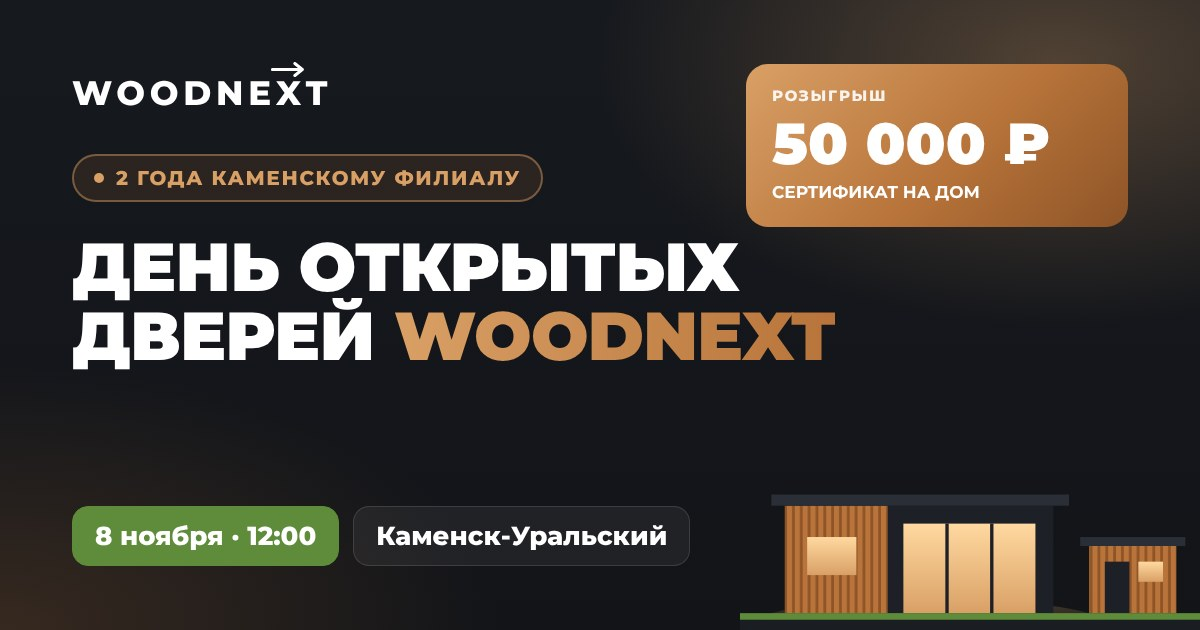
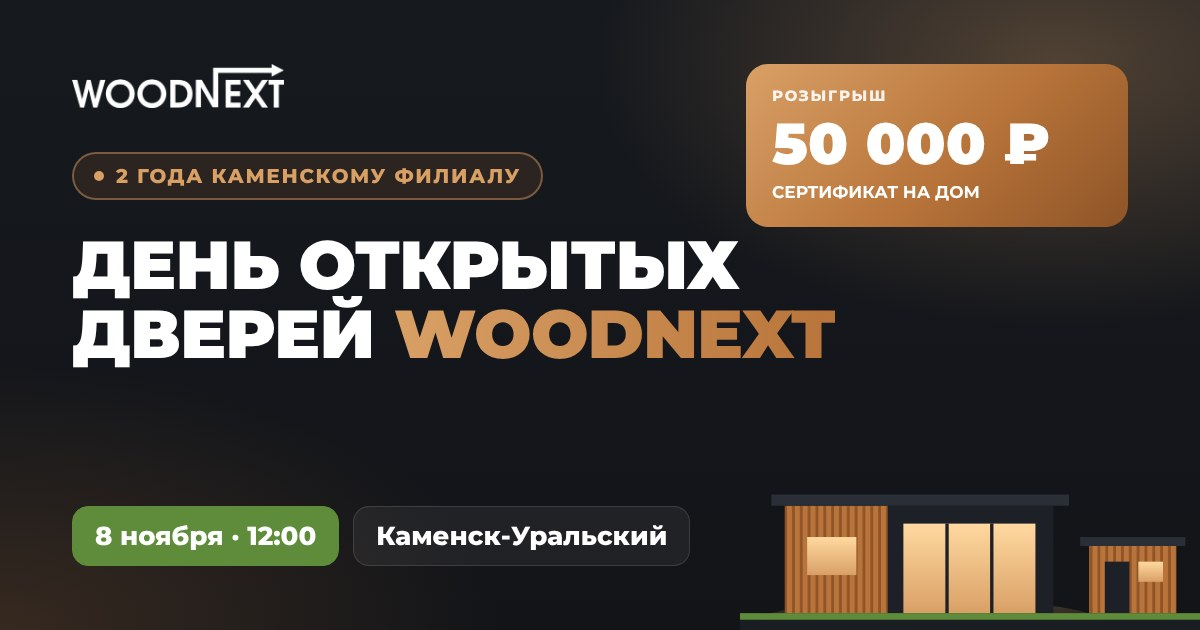
WOODNEXT: настоящий логотип вместо заглушки
Логотип в шапке, подвале, политике и админке, картинка превью
пересобрана с ним.

Claude-Session: https://claude.ai/code/session_01DGXrF3mjhwanw49dqNWk3Y

diff --git a/woodnext/admin.html b/woodnext/admin.html
@@ -86,7 +86,7 @@
 <header class="top">
   <div class="wrap">
     <span class="logo logo--sm" aria-label="WOODNEXT">
-      <span class="logo__text">WOODNE<span class="logo__x">X<svg class="logo__arrow" viewBox="0 0 24 10" aria-hidden="true"><path d="M1 5h20M16 1l5 4-5 4" fill="none" stroke="currentColor" stroke-width="2" stroke-linecap="round" stroke-linejoin="round"/></svg></span>T</span>
+      <img class="logo__img" src="images/logo.png" alt="WOODNEXT" width="900" height="187">
     </span>
     <span class="top__title">Админка</span>
     <button class="icon-btn" id="refreshBtn" type="button" title="Обновить" hidden>
@@ -99,7 +99,7 @@
 
   <!-- Вход -->
   <section class="login" id="loginView">
-    <span class="logo" aria-hidden="true"><span class="logo__text">WOODNE<span class="logo__x">X<svg class="logo__arrow" viewBox="0 0 24 10"><path d="M1 5h20M16 1l5 4-5 4" fill="none" stroke="currentColor" stroke-width="2" stroke-linecap="round" stroke-linejoin="round"/></svg></span>T</span></span>
+    <span class="logo" aria-hidden="true"><img class="logo__img" src="images/logo.png" alt="WOODNEXT" width="900" height="187"></span>
     <h1>Заявки на день открытых дверей</h1>
     <p>Только для организаторов. Введите пароль из настроек Apps Script (ADMIN_PASSWORD).</p>
     <form id="loginForm">

diff --git a/woodnext/index.html b/woodnext/index.html
@@ -40,7 +40,7 @@
 
     <!-- ЛОГОТИП (заглушка). Чтобы заменить на файл — впишите LOGO_IMAGE в config.js -->
     <a class="logo" href="#top" aria-label="WOODNEXT">
-      <span class="logo__text">WOODNE<span class="logo__x">X<svg class="logo__arrow" viewBox="0 0 24 10" aria-hidden="true"><path d="M1 5h20M16 1l5 4-5 4" fill="none" stroke="currentColor" stroke-width="2" stroke-linecap="round" stroke-linejoin="round"/></svg></span>T</span>
+      <img class="logo__img" src="images/logo.png" alt="WOODNEXT" width="900" height="187">
     </a>
 
     <p class="badge"><span class="badge__dot"></span>2 года Каменскому филиалу</p>
@@ -347,7 +347,7 @@
 <footer class="footer">
   <div class="wrap">
     <a class="logo logo--sm" href="#top" aria-label="WOODNEXT">
-      <span class="logo__text">WOODNE<span class="logo__x">X<svg class="logo__arrow" viewBox="0 0 24 10" aria-hidden="true"><path d="M1 5h20M16 1l5 4-5 4" fill="none" stroke="currentColor" stroke-width="2" stroke-linecap="round" stroke-linejoin="round"/></svg></span>T</span>
+      <img class="logo__img" src="images/logo.png" alt="WOODNEXT" width="900" height="187">
     </a>
     <p class="footer__desc">Модульные дома и бани · Екатеринбург</p>
 

diff --git a/woodnext/styles.css b/woodnext/styles.css
@@ -53,8 +53,8 @@ ul, ol { padding: 0; list-style: none; }
   color: #fff;
 }
 .logo--sm .logo__text { font-size: 18px; }
-.logo img { height: 34px; width: auto; }
-.logo--sm img { height: 28px; }
+.logo img { display: block; height: 30px; width: auto; }
+.logo--sm img { height: 22px; }
 
 /* ---------- Кнопки ---------- */
 .btn {
@@ -324,6 +324,8 @@ ul, ol { padding: 0; list-style: none; }
 @media (min-width: 700px) {
   .wrap { padding: 0 32px; }
   .logo__text { font-size: 26px; }
+  .logo img { height: 36px; }
+  .logo--sm img { height: 26px; }
   .facts { grid-template-columns: repeat(3, 1fr); max-width: 760px; }
   .fact--wide { grid-column: auto; }
   .hero__actions { flex-direction: row; width: auto; align-items: center; }

diff --git a/woodnext/_source/og-image.html b/woodnext/_source/og-image.html
@@ -47,7 +47,7 @@
   <rect x="0" y="150" width="420" height="20" fill="#1A1D22"/>
 </svg>
 <div class="in">
-  <div class="logo">WOODNE<span class="x">X<svg viewBox="0 0 24 10"><path d="M1 5h20M16 1l5 4-5 4" fill="none" stroke="#fff" stroke-width="2" stroke-linecap="round" stroke-linejoin="round"/></svg></span>T</div><br>
+  <img src="../images/logo.png" alt="WOODNEXT" style="height:44px;display:block">
   <div class="badge"><i></i>2 года Каменскому филиалу</div>
   <h1>День открытых дверей <span>WOODNEXT</span></h1>
   <div class="prize"><small>Розыгрыш</small><b>50 000 ₽</b><span>сертификат на дом</span></div>

diff --git a/woodnext/config.js b/woodnext/config.js
@@ -9,8 +9,7 @@ window.WOODNEXT_CONFIG = {
   // Выглядит так: https://script.google.com/macros/s/AKfy..../exec
   SCRIPT_URL: '',
 
-  // Логотип. Пока пусто — показывается текстовая заглушка.
-  // Положите файл в папку images и впишите путь: 'images/logo.png'
+  // Логотип уже стоит в разметке (images/logo.png). Чтобы сменить — замените сам файл.
   LOGO_IMAGE: '',
 
   // Адрес производства — показывается на сайте и уходит в Яндекс Карты.

diff --git a/woodnext/privacy.html b/woodnext/privacy.html
@@ -28,7 +28,7 @@
 <body>
   <div class="wrap wrap--narrow doc">
     <a class="logo logo--sm" href="./" aria-label="WOODNEXT — на главную">
-      <span class="logo__text">WOODNE<span class="logo__x">X<svg class="logo__arrow" viewBox="0 0 24 10" aria-hidden="true"><path d="M1 5h20M16 1l5 4-5 4" fill="none" stroke="currentColor" stroke-width="2" stroke-linecap="round" stroke-linejoin="round"/></svg></span>T</span>
+      <img class="logo__img" src="images/logo.png" alt="WOODNEXT" width="900" height="187">
     </a>
 
     <h1>Политика обработки персональных данных</h1>

diff --git a/woodnext/ИНСТРУКЦИЯ.md b/woodnext/ИНСТРУКЦИЯ.md
@@ -188,12 +188,8 @@
 
 ## Шаг 5. Логотип и фото
 
-**Логотип.** Сохраните файл как `images/logo.png` (лучше PNG с прозрачным фоном, белый логотип, высотой 100–150 px).
-В `config.js` впишите:
-```js
-LOGO_IMAGE: 'images/logo.png',
-```
-Логотип сам заменит текстовую заглушку в шапке, подвале и на странице политики.
+**Логотип** уже стоит: `images/logo.png` (белый на прозрачном фоне, 900×187). Чтобы сменить — замените этот файл,
+сохранив имя. Он же используется на картинке превью (`_source/og-image.html`).
 
 **Фото.** Положите в папку `images` файлы с точными именами — они появятся вместо плейсхолдеров сами, ничего в коде менять не надо:
 
